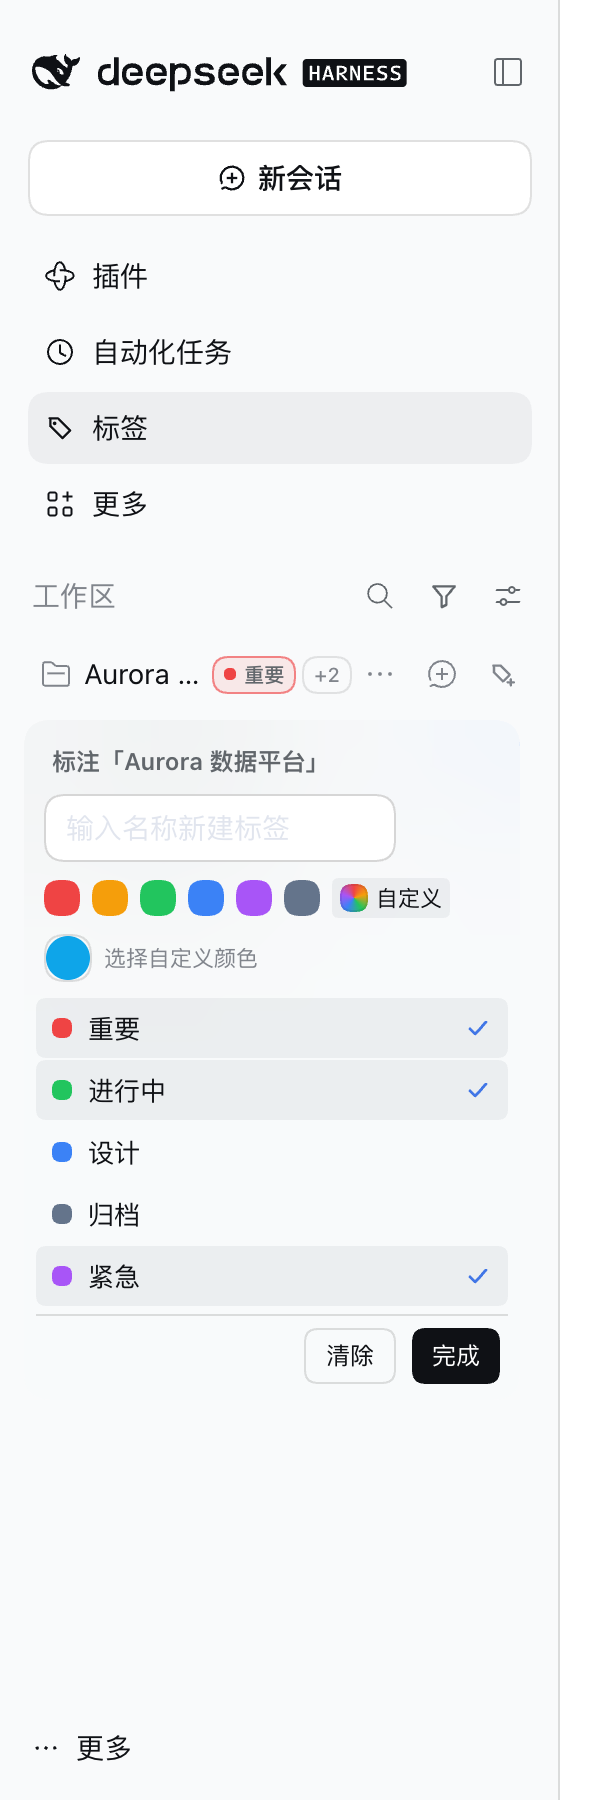
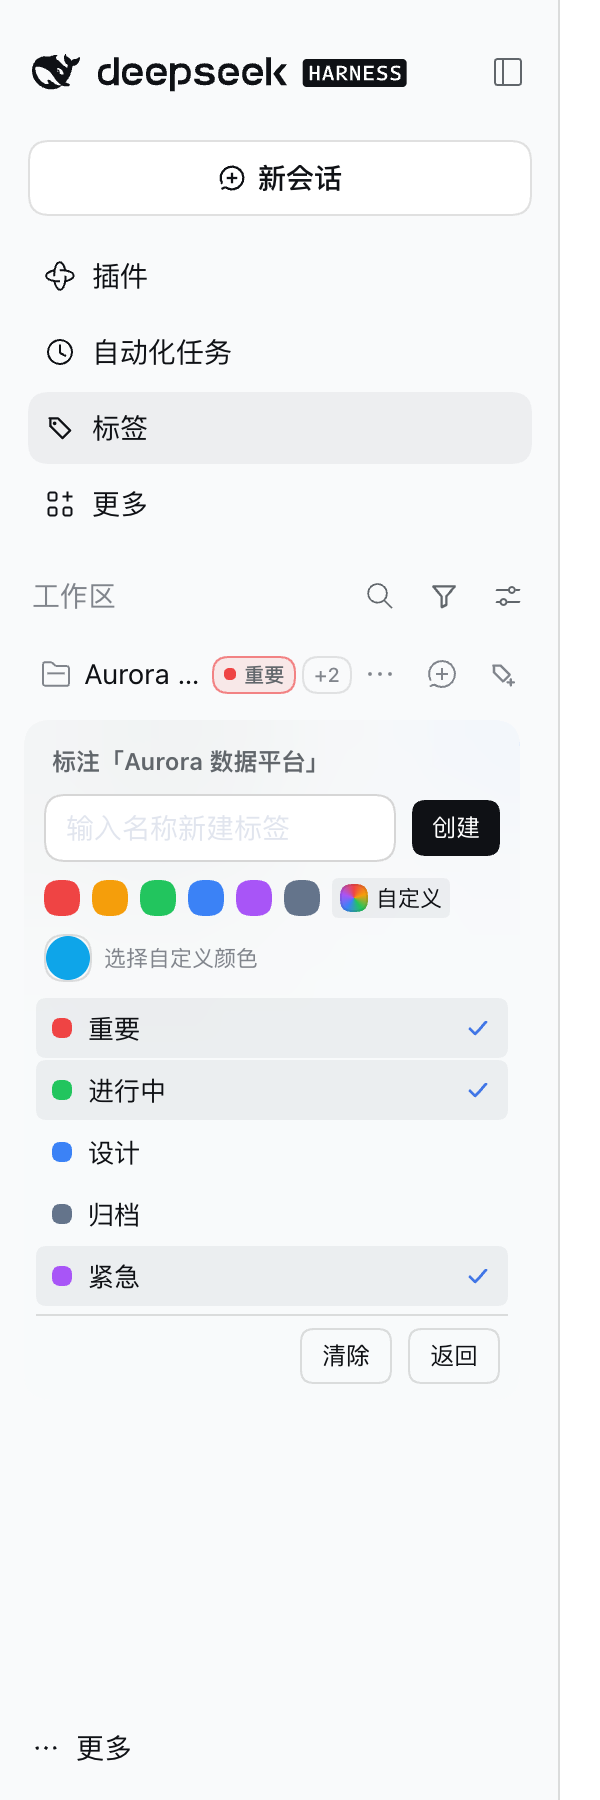
feat: add a Create button to the annotation picker
Put a Create button beside the name field that runs the same submit path
as Enter, and rename the footer Done action to Back so it no longer reads
like the create-tag button.

Changed region(s): [[0.54, 0.7156, 0.84, 0.7778], [0.69, 0.4356, 0.84, 0.4978], [0.48, 0.7467, 0.51, 0.7778]]

diff --git a/src/client/components/TagPickerPanel.tsx b/src/client/components/TagPickerPanel.tsx
@@ -66,6 +66,7 @@ export function TagPickerPanel({ snapshot, t, addTag, assign, clearAssignments, 
       setError(null)
       setColor(nextPickerColor([...snapshot.tags, result.tag]))
       setCustomOpen(false)
+      inputRef.current?.focus()
       return
     }
     if (result.code === 'duplicate') {
@@ -75,6 +76,7 @@ export function TagPickerPanel({ snapshot, t, addTag, assign, clearAssignments, 
         assign(picker.workspaceId, existing.id, true)
         setDraft('')
         setError(null)
+        inputRef.current?.focus()
         return
       }
     }
@@ -107,6 +109,9 @@ export function TagPickerPanel({ snapshot, t, addTag, assign, clearAssignments, 
             }}
           />
         </div>
+        <Button size="sm" variant="primary" data-dshwt-picker-create="" onClick={submit}>
+          {t('picker.create')}
+        </Button>
       </div>
       <div className="dshwt-picker-colors" role="group" aria-label={t('page.color')}>
         {PICKER_PALETTE.map((preset) => (
@@ -181,8 +186,8 @@ export function TagPickerPanel({ snapshot, t, addTag, assign, clearAssignments, 
         >
           {t('picker.clear')}
         </Button>
-        <Button size="sm" variant="primary" onClick={closePicker}>
-          {t('picker.done')}
+        <Button size="sm" variant="outline" onClick={closePicker}>
+          {t('picker.back')}
         </Button>
       </div>
     </AnchorPanel>

diff --git a/src/client/locales.ts b/src/client/locales.ts
@@ -35,8 +35,9 @@ export const zh = {
   'picker.title': '标注「{name}」',
   'picker.placeholder': '输入名称新建标签',
   'picker.clear': '清除',
-  'picker.done': '完成',
-  'picker.empty': '还没有标签，输入名称回车即可创建。',
+  'picker.create': '创建',
+  'picker.back': '返回',
+  'picker.empty': '还没有标签，输入名称后按回车或点「创建」。',
   'picker.custom': '自定义',
   'picker.customHint': '选择自定义颜色',
   'filter.label': '按标签筛选',
@@ -90,8 +91,9 @@ export const en: Record<WorkspaceTagsKey, string> = {
   'picker.title': 'Tag "{name}"',
   'picker.placeholder': 'Type a name to create a tag',
   'picker.clear': 'Clear',
-  'picker.done': 'Done',
-  'picker.empty': 'No tags yet. Type a name and press Enter to create one.',
+  'picker.create': 'Create',
+  'picker.back': 'Back',
+  'picker.empty': 'No tags yet. Type a name, then press Enter or click Create.',
   'picker.custom': 'Custom',
   'picker.customHint': 'Pick a custom colour',
   'filter.label': 'Filter by tag',

diff --git a/docs/DESIGN.md b/docs/DESIGN.md
@@ -91,6 +91,7 @@ interface TagState {
 - 组头与原生工作区行同格式：34px 行高、8px 内边距、16px glyph 槽（色点；悬停/聚焦或收起时换成 chevron）、14px/700 标签名、行尾数量与 hover 操作区。成员 section 通过 `--dsh-workspace-indent: 12px` 缩进一级，视觉上等同原生「按工作区树」的子项。
 - 选中「按标签」时，程序化点击原生的「按工作区」项，把列表切到可重排的分组视图；然后插入组头节点并写 `order`。
 - 组顺序等于标签创建顺序；一个项目归入其**最早创建**的标签；没有标签的项目归入「未标注」；空组不显示。
+- 标注浮层的输入框右侧有「创建」按钮，与回车共用同一个 `submit()`；底部「返回」只关闭浮层。
 - 标注浮层的颜色行提供 6 个预设色；「自定义」展开原生取色器，只有展开后才可设定任意颜色。
 - 折叠：点击组头或按 Enter/Space 切换 `collapsedGroups`；成员的 `data-dshwt-group-collapsed` 控制显示，布局签名包含折叠集合，重绘后焦点回到同一组头。
 - 取消：组头 hover 显示「取消」；控制器计算该组的**完整成员**（按首标签），写入 `groupClear` 请求；`Modal` 确认后一次性从这些工作区移除该标签，标签定义保留。被筛选临时隐藏的成员也计入，因此组会真正消失。

diff --git a/README.md b/README.md
@@ -34,7 +34,8 @@ DeepSeek Harness 的工作区列表按项目名排列。项目一多，就很难
 
 把鼠标移到工作区行上，点行尾的「标签」按钮（或点已有芯片）打开标注浮层：
 
-- 输入名称按回车：创建标签并立即指派
+- 输入名称后按回车，或点输入框右侧的 **「创建」** 按钮：创建标签并立即指派
+- 底部 **「返回」** 关闭浮层（不再使用容易误解的「完成」）
 - 颜色行提供 **6 个预设颜色**；点最后的「自定义」才会展开取色器，自行设定颜色
 - 名称与已有标签重复：直接指派已有标签，不会产生重复标签
 - 点标签行切换指派；「清除」移除该项目的全部标签

diff --git a/CHANGELOG.md b/CHANGELOG.md
@@ -2,6 +2,13 @@
 
 本项目的所有重要变更都记录在这里。格式参考 [Keep a Changelog](https://keepachangelog.com/zh-CN/1.1.0/)，版本号遵循 [SemVer](https://semver.org/lang/zh-CN/)。
 
+## [0.3.1] - 2026-11-04
+
+### 变更
+
+- 标注浮层输入框右侧新增「创建」按钮，点击与按回车行为一致（新建并指派标签）。
+- 底部「完成」改为「返回」，避免被误认为创建标签的按钮。
+
 ## [0.3.0] - 2026-11-04
 
 ### 变更
